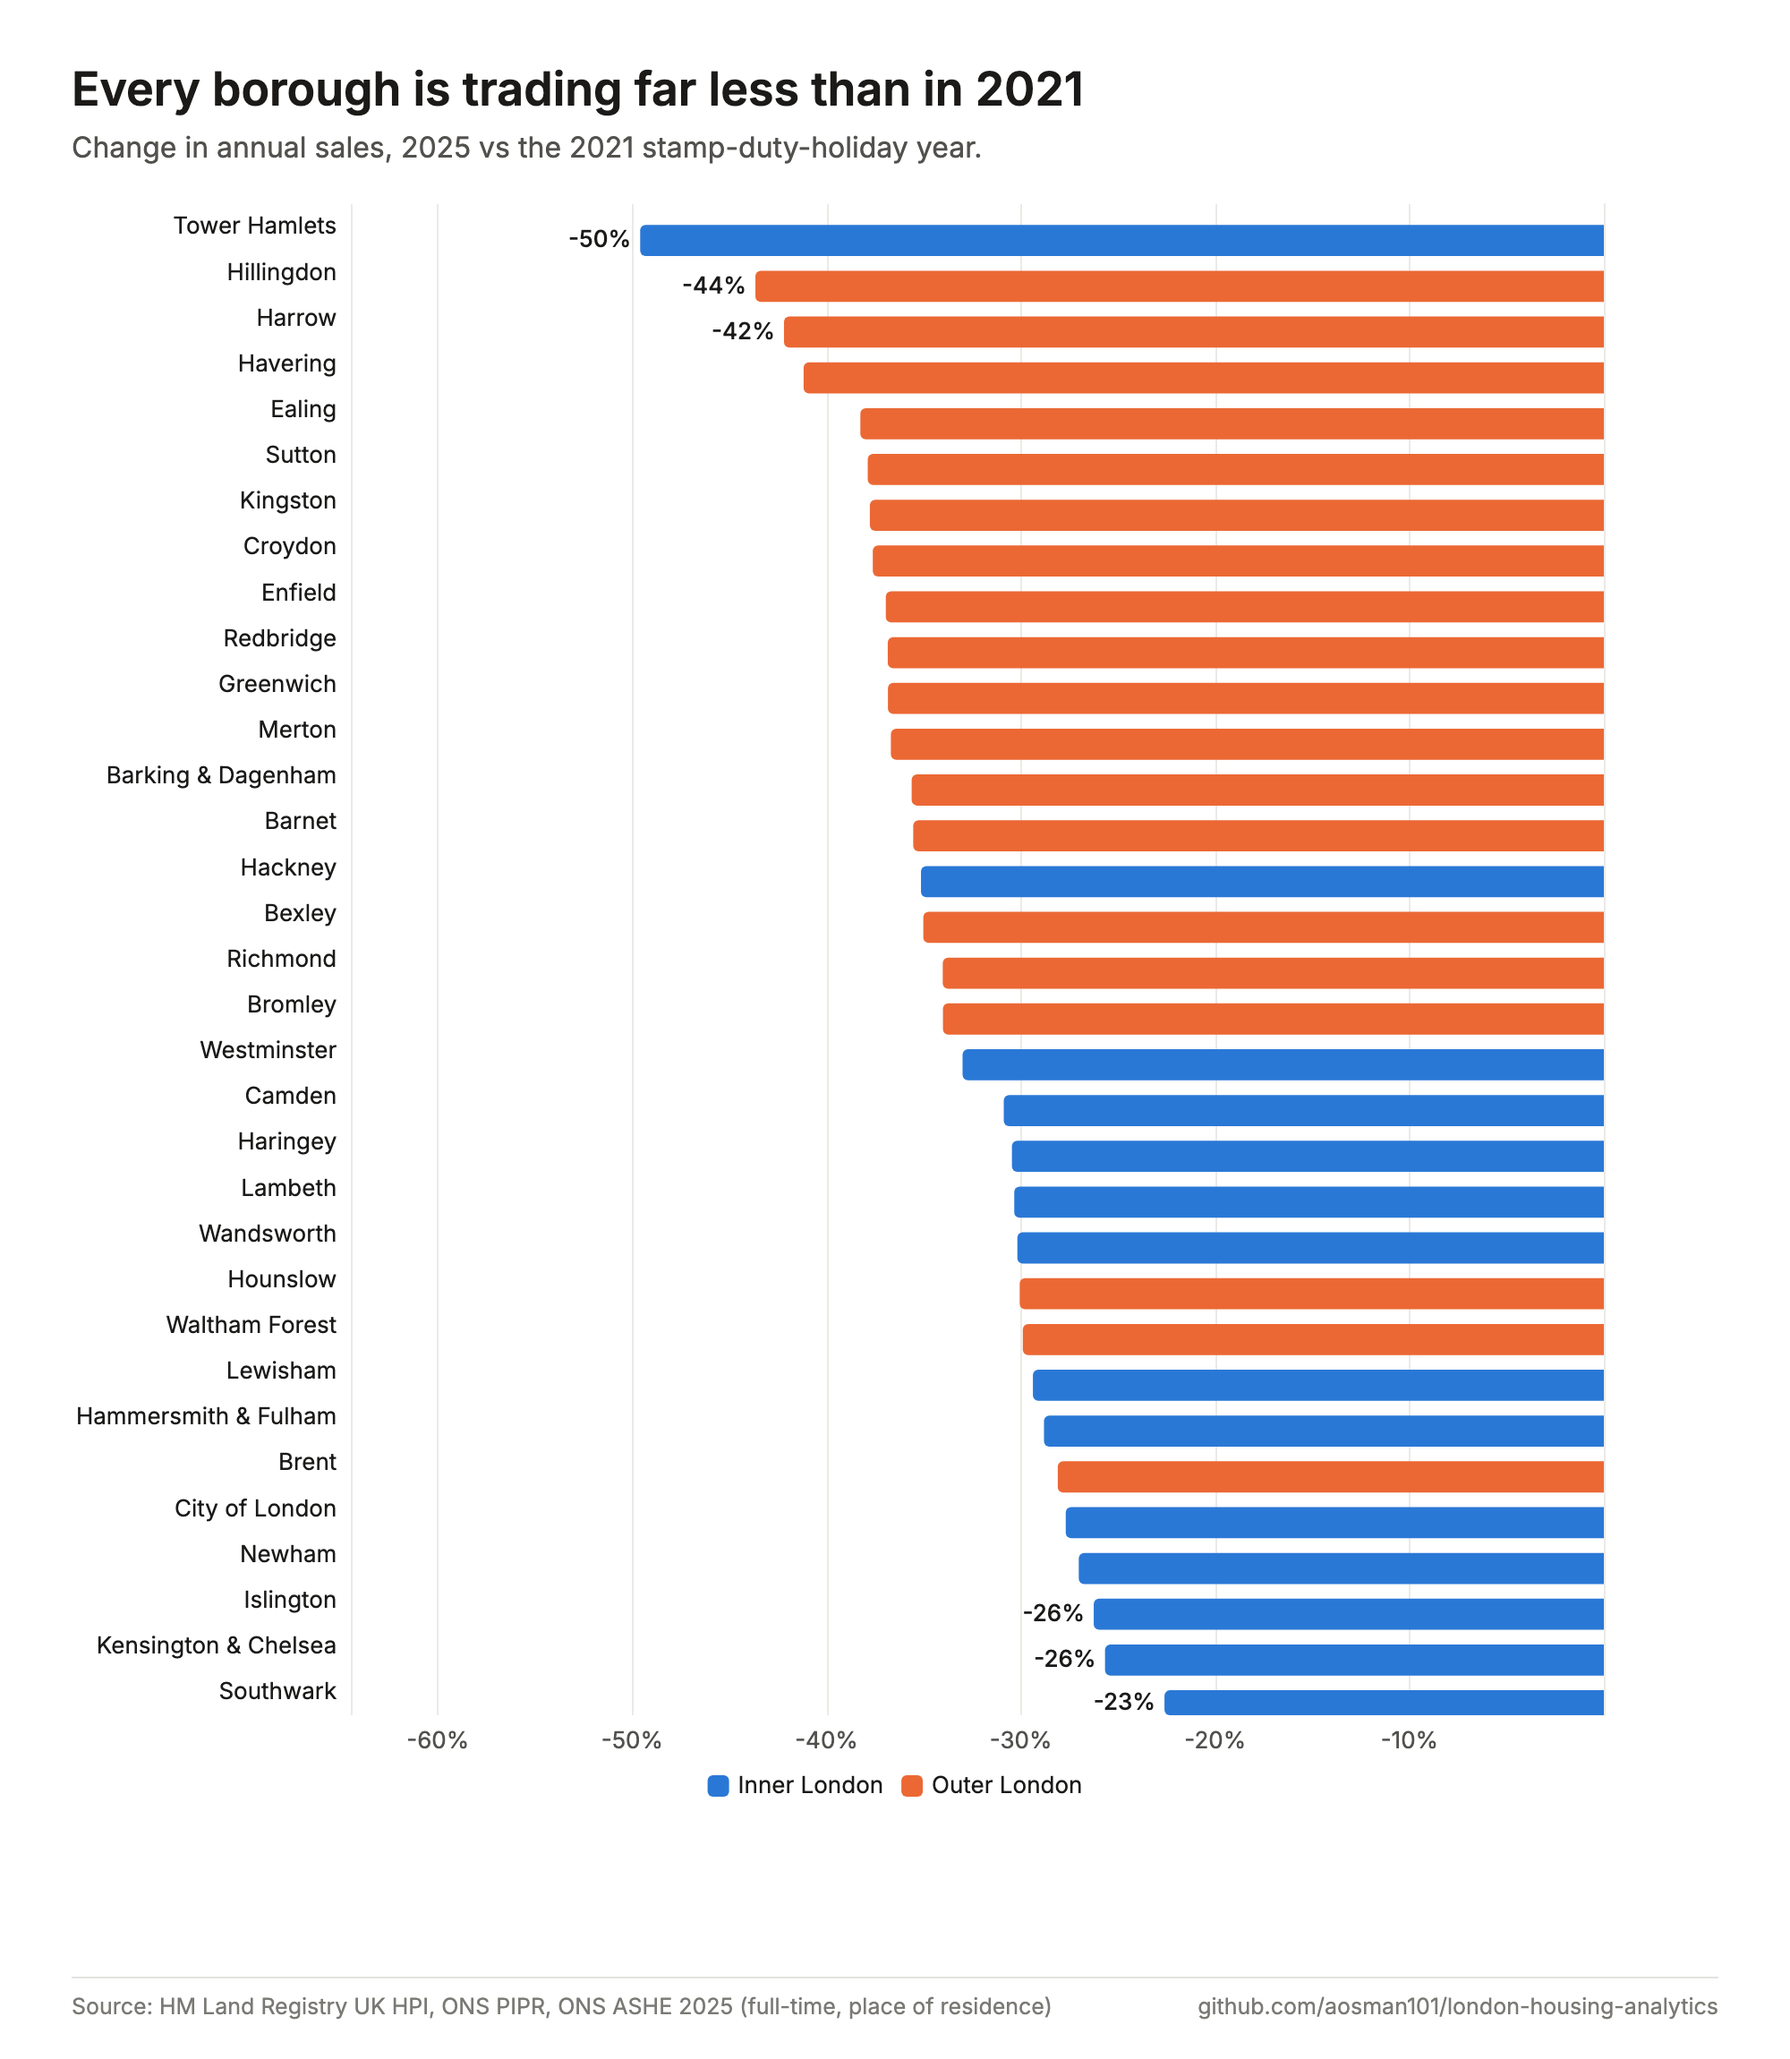
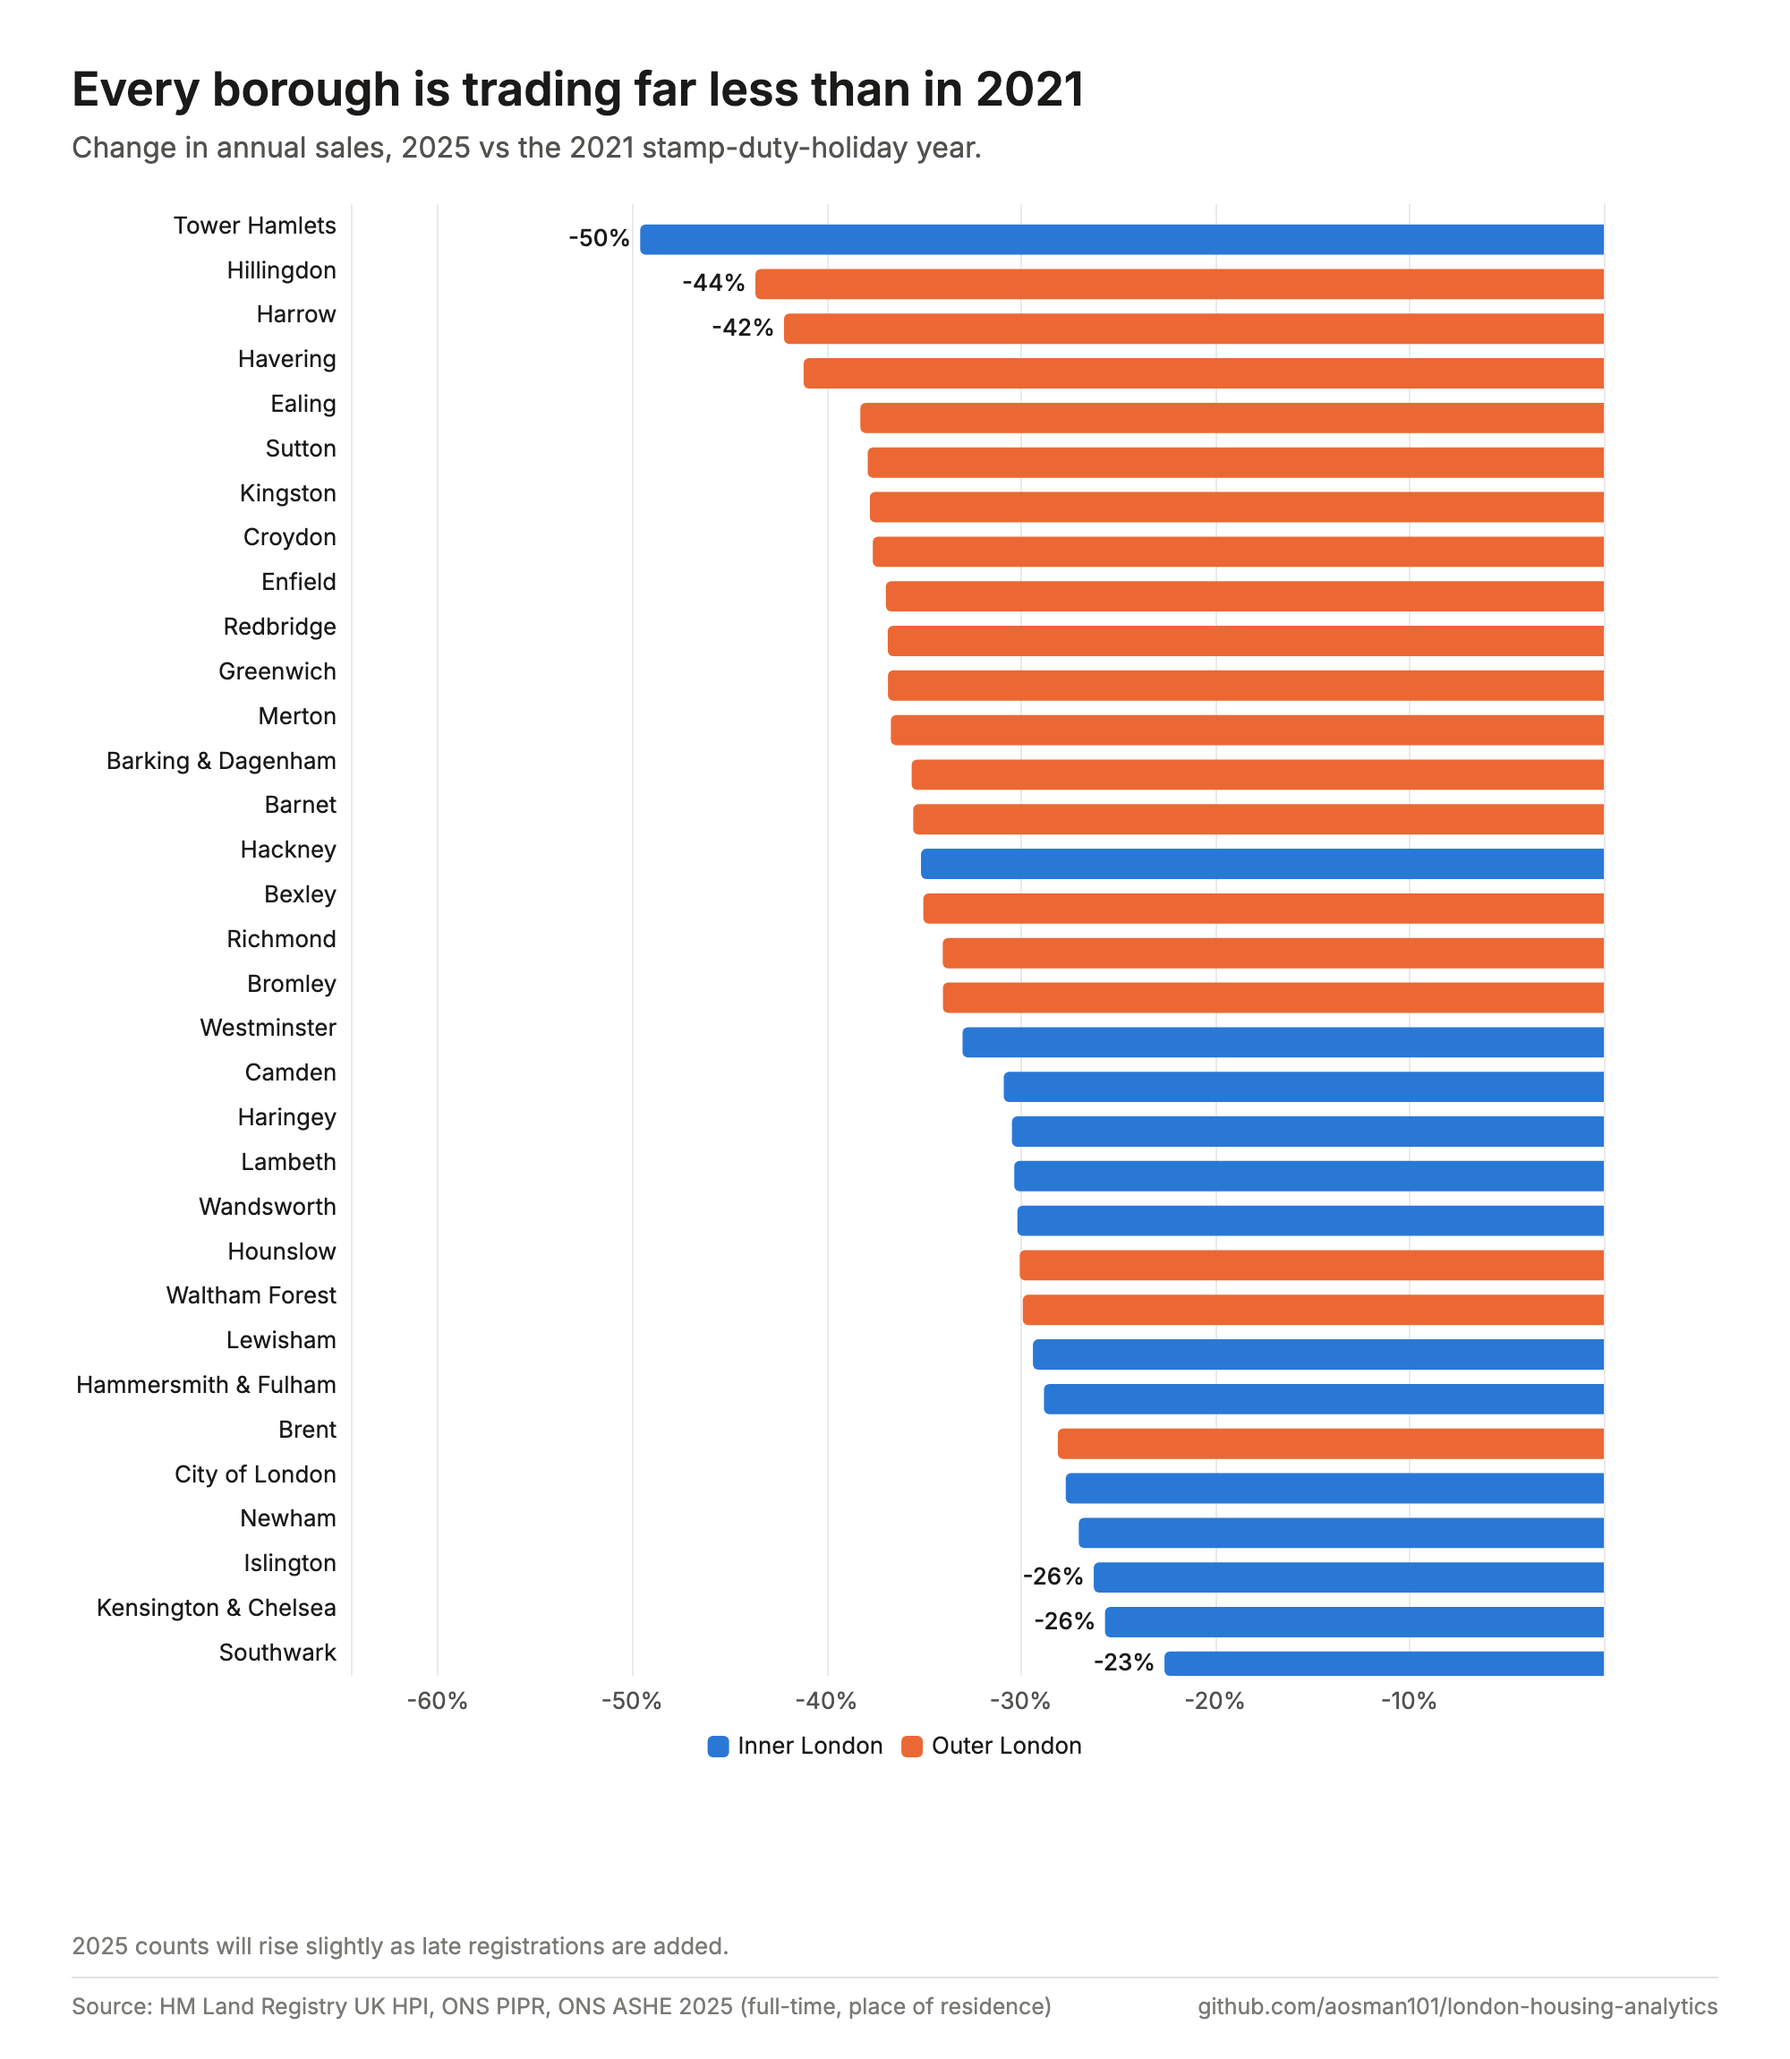
Update export_images.py to enhance visual export functionality and add new app page visuals

diff --git a/housing-analytics/export_images.py b/housing-analytics/export_images.py
@@ -16,7 +16,7 @@ DASHBOARD = HERE / "dashboard" / "index.html"
 IMAGES = HERE / "images"
 SCALE = 2  # device pixel ratio -> crisp images for LinkedIn
 
-# file name, visual id, CSS width, CSS height
+# file name, visual id (or a full query string for app-page screenshots), CSS width, CSS height
 VISUALS = [
     ("00_full_dashboard", "full", 1920, 2560),
     ("01_map_price_to_earnings", "map", 1200, 1000),
@@ -38,6 +38,9 @@ VISUALS = [
     ("17_gross_rental_yield", "yield", 1000, 1150),
     ("18_yield_vs_price", "yieldscatter", 1200, 850),
     ("19_price_volatility", "volatility", 1000, 1150),
+    ("20_app_overview_page", "page=overview", 1600, 1300),
+    ("21_app_borough_profile_page", "page=profile&borough=E09000020", 1600, 1150),
+    ("22_app_rental_pressure_page", "page=rent&group=Outer%20London&borough=E09000004", 1600, 1250),
 ]
 
 
@@ -58,7 +61,8 @@ def find_chrome() -> str:
 
 def export(chrome: str, name: str, visual: str, width: int, height: int) -> None:
     out = IMAGES / f"{name}.png"
-    url = f"{DASHBOARD.as_uri()}?export={visual}"
+    query = visual if "=" in visual else f"export={visual}"
+    url = f"{DASHBOARD.as_uri()}?{query}"
     with tempfile.TemporaryDirectory() as profile:
         cmd = [
             chrome, "--headless=new", "--disable-gpu", "--hide-scrollbars", "--no-first-run",
